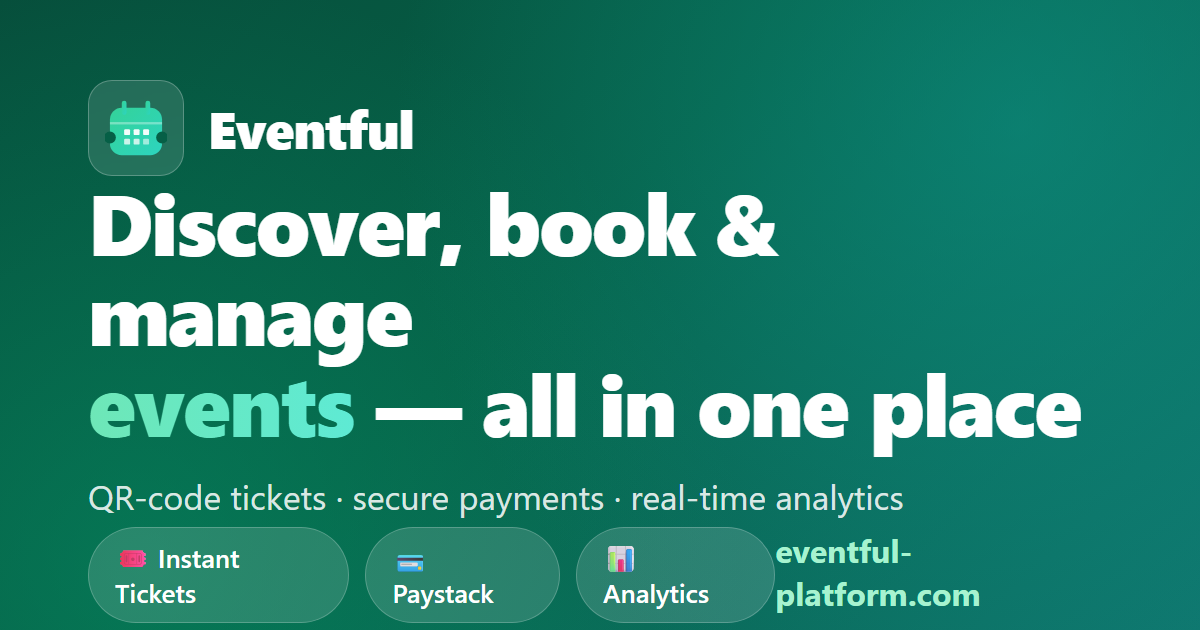
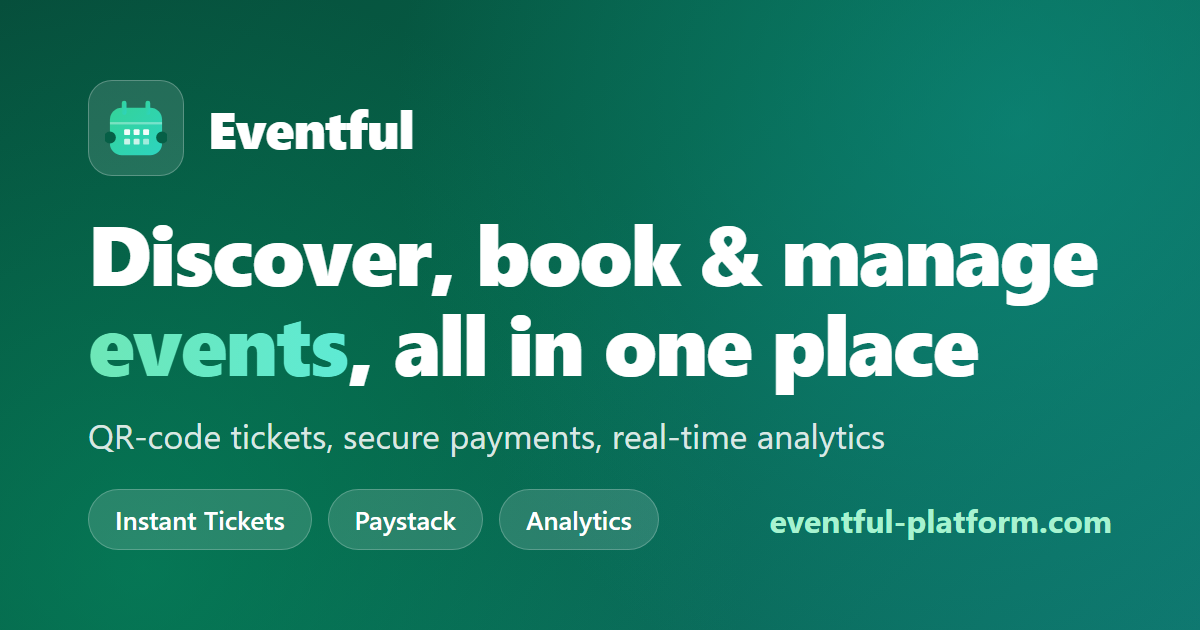
fix(seo): remove em dashes from link preview tags and image
Replace em dashes with hyphens in og:title, twitter:title and image
alt text, and regenerate the share image headline without an em
dash, so the preview reads cleanly.

Changed region(s): [[0.0617, 0.3016, 0.925, 0.7238], [0.0617, 0.754, 0.925, 0.9952]]

diff --git a/client/index.html b/client/index.html
@@ -16,7 +16,7 @@
     <meta property="og:type" content="website" />
     <meta property="og:site_name" content="Eventful" />
     <meta property="og:url" content="https://eventful-platform.com/" />
-    <meta property="og:title" content="Eventful — Event Ticketing Platform" />
+    <meta property="og:title" content="Eventful - Event Ticketing Platform" />
     <meta
       property="og:description"
       content="Discover, book and manage events with QR-code tickets, secure payments, and real-time analytics."
@@ -26,18 +26,18 @@
     <meta property="og:image:type" content="image/png" />
     <meta property="og:image:width" content="1200" />
     <meta property="og:image:height" content="630" />
-    <meta property="og:image:alt" content="Eventful — discover, book and manage events" />
+    <meta property="og:image:alt" content="Eventful - discover, book and manage events" />
 
     <!-- Twitter / X -->
     <meta name="twitter:card" content="summary_large_image" />
     <meta name="twitter:url" content="https://eventful-platform.com/" />
-    <meta name="twitter:title" content="Eventful — Event Ticketing Platform" />
+    <meta name="twitter:title" content="Eventful - Event Ticketing Platform" />
     <meta
       name="twitter:description"
       content="Discover, book and manage events with QR-code tickets, secure payments, and real-time analytics."
     />
     <meta name="twitter:image" content="https://eventful-platform.com/og-image.png" />
-    <meta name="twitter:image:alt" content="Eventful — discover, book and manage events" />
+    <meta name="twitter:image:alt" content="Eventful - discover, book and manage events" />
   </head>
   <body>
     <div id="root"></div>